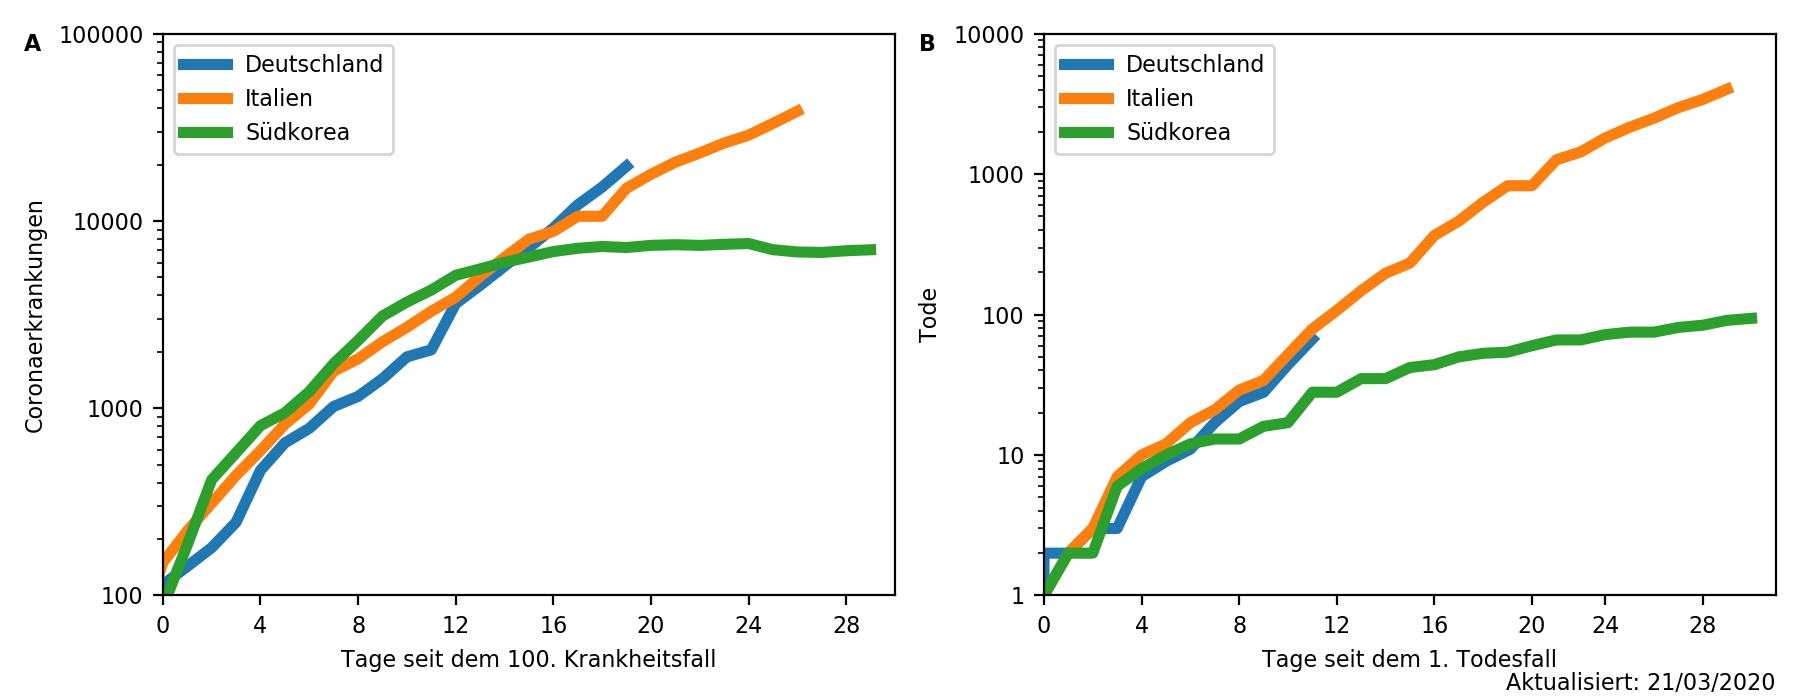
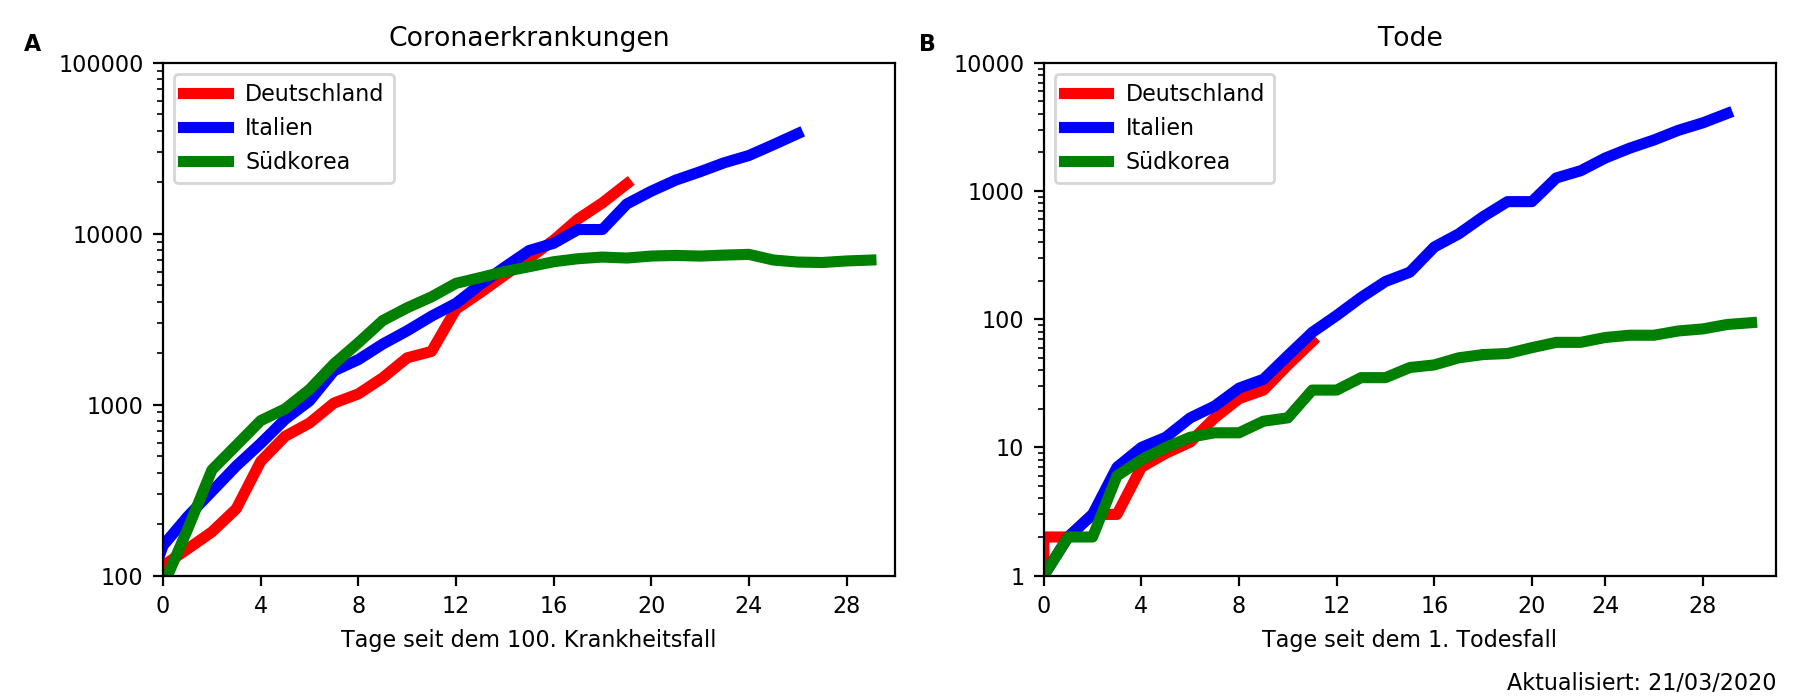
Cosmetic update evolution

diff --git a/coronavirus.py b/coronavirus.py
@@ -87,7 +87,7 @@ def get_data():
 
 	return df
 
-def plot_countries(df,country_list=['Germany', 'Italy', 'France'], lag_countries=None, variable='confirmed', xlim=['2020-02-21','2020-03-17'], ylim=None,ax=None,savefig=None, **kwargs):
+def plot_countries(df,country_list=['Germany', 'Italy', 'France'], lag_countries=None, variable='confirmed', xmin='2020-02-21', ylim=None,ax=None,savefig=None, **kwargs):
 
 	df2 = df[df['Country/Region'].isin(country_list)]
 
@@ -111,7 +111,11 @@ def plot_countries(df,country_list=['Germany', 'Italy', 'France'], lag_countries
 	else:
 		ax.set_ylim([1,ax.get_ylim()[1]])
 
-	ax.set_xlim([pd.Timestamp(xlim[0]), pd.Timestamp(xlim[1])])
+	#Sets xlim
+	x_lim_0 = pd.Timestamp(xmin)
+	x_min_1 = df2[x_var].max() + pd.to_timedelta(1, unit='d')
+
+	ax.set_xlim([x_lim_0, x_min_1])
 	ax.yaxis.set_major_formatter(mticker.ScalarFormatter())
 	#ax.xaxis.set_major_locator(mdates.DayLocator())
 	ax.xaxis.set_major_formatter(mdates.DateFormatter('%d/%m'))
@@ -330,25 +334,24 @@ def plot_local_update(lang='de'):
 
 	#Plots comparison between countries_list
 	countries_list = ['Germany', 'Italy', 'Korea, South']
+	color_palette = ['r','b','g']
 
 	fig = plt.figure(figsize=(9,3.5))
 	gs = fig.add_gridspec(1,2)
 	ax_cases = fig.add_subplot(gs[0])
 	ax_deaths = fig.add_subplot(gs[1])
 	df = get_data()
-	plot_countries(df,countries_list,variable='current', lag_countries=[0,-7,-10], xlim=['2020-03-01','2020-03-31'], ylim=[100,1e5], ax=ax_cases,**{'linewidth':4})
-	plot_countries(df,countries_list,variable='deaths', lag_countries=[0,-17,-18], xlim=['2020-03-09','2020-04-08'], ylim=[1,1e4],ax=ax_deaths,**{'linewidth':4})
-
-	plt.tight_layout()
+	plot_countries(df,countries_list,variable='current', lag_countries=[0,-7,-10], xmin='2020-03-01', ylim=[100,1e5], ax=ax_cases,**{'linewidth':4, 'palette': color_palette})
+	plot_countries(df,countries_list,variable='deaths', lag_countries=[0,-17,-18], xmin='2020-03-09', ylim=[1,1e4],ax=ax_deaths,**{'linewidth':4, 'palette': color_palette})
 
 	if lang == 'de':
 
 		ax_cases.legend(['Deutschland','Italien', 'Südkorea'])
 		ax_deaths.legend(['Deutschland','Italien', 'Südkorea'])
 		ax_cases.set_xlabel('Tage seit dem 100. Krankheitsfall')
-		ax_cases.set_ylabel('Coronaerkrankungen')
+		ax_cases.set_title('Coronaerkrankungen')
 		ax_deaths.set_xlabel('Tage seit dem 1. Todesfall')
-		ax_deaths.set_ylabel('Tode')
+		ax_deaths.set_title('Tode')
 
 		str_save = 'plots/evolution_de.png'
 
@@ -356,18 +359,22 @@ def plot_local_update(lang='de'):
 		ax_cases.legend(['Germany','Italy', 'South Korea'])
 		ax_deaths.legend(['Germany','Italy', 'South Korea'])
 		ax_cases.set_xlabel('Days since 100th case')
-		ax_cases.set_ylabel('Confirmed cases')
+		ax_cases.set_title('Confirmed cases')
 		ax_deaths.set_xlabel('Days since 1st death')
-		ax_deaths.set_ylabel('Deaths')
+		ax_deaths.set_title('Deaths')
 
 		str_save = 'plots/evolution_en.png'
 
 	ax_cases.set_xticklabels(np.arange(0,30,4))
 	ax_deaths.set_xticklabels(np.arange(0,30,4))
+	ax_cases.set_ylabel('')
+	ax_deaths.set_ylabel('')
 
 	ax_deaths.annotate(str_ann, xy=(1,-0.01), xycoords=('axes fraction','figure fraction'), xytext=(0,6), textcoords='offset points', ha='right')
 	ax_cases.annotate('A', xy=(-0.19,0.9), xycoords=('axes fraction','figure fraction'), xytext=(0,7), textcoords='offset points', ha='left', weight='bold')
 	ax_deaths.annotate('B', xy=(-0.17,0.9), xycoords=('axes fraction','figure fraction'), xytext=(0,7), textcoords='offset points', ha='left', weight='bold')
+
+	plt.tight_layout()
 
 	plt.savefig(str_save, dpi=200)
 	plt.close('all')
